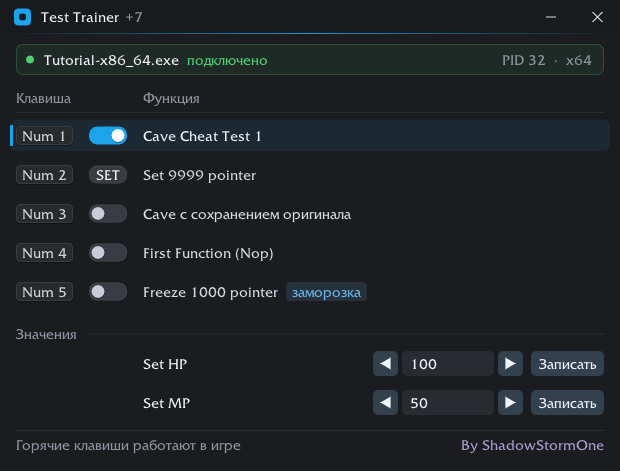
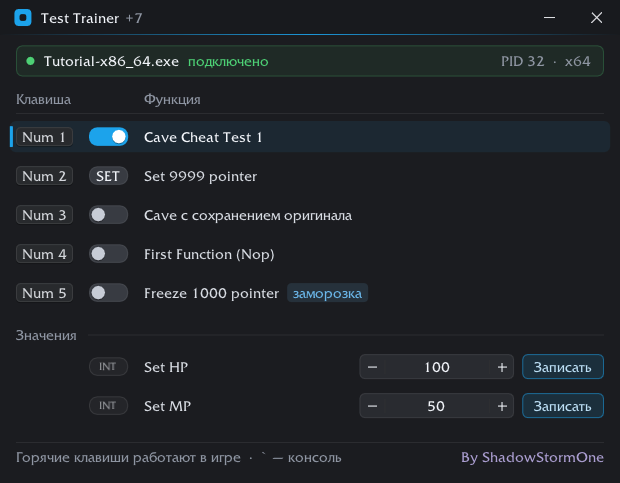
Поля значений вписаны в таблицу: единое поле «− число +», кнопка в стиле панели
Строки значений выглядели чужими: название висело посреди строки,
слева зияла пустота на месте клавиши и переключателя, стрелки были
отдельными синими квадратами, а кнопка «Записать» — стандартной кнопкой
ImGui другой высоты.

Теперь строка значения устроена как строка чита: та же подсветка при
наведении, на месте переключателя — плашка типа (INT/FLOAT) того же
размера, название в той же колонке и тем же цветом. Поле — одна рамка
«− число +» с числом по центру и акцентной рамкой при вводе; кнопка
«Записать» — в акцентном цвете панели. Всё одной высоты и масштабируется
вместе с интерфейсом.

Старый ValueStepper больше не нужен и удалён.

Claude-Session: https://claude.ai/code/session_013vY5VkDpGFGQUtxpPz7ULk

diff --git a/ui/UIControls.cpp b/ui/UIControls.cpp
@@ -212,16 +212,20 @@ void UIControls::StatusDot(const ImVec2& center, float radius, ImU32 color, floa
     draw->AddCircleFilled(center, radius, color);
 }
 
-bool UIControls::ValueStepper(const char* id, ImGuiDataType type, void* value, double step, float width,
-                              bool* submitted)
+bool UIControls::NumberField(const char* id, ImGuiDataType type, void* value, double step,
+                             const ImVec2& size, bool* submitted)
 {
     if (!value) return false;
 
     ImGui::PushID(id);
 
     const ImGuiStyle& style = ImGui::GetStyle();
-    const float arrow = ImGui::GetFrameHeight(); // стрелки квадратные
-    const float fieldWidth = width - arrow * 2.0f - style.ItemInnerSpacing.x * 2.0f;
+    ImDrawList* draw = ImGui::GetWindowDrawList();
+    const ImVec2 p = ImGui::GetCursorScreenPos();
+    const ImVec2 max(p.x + size.x, p.y + size.y);
+    const float rounding = style.FrameRounding;
+    const float button = size.y; // − и + квадратные
+    const bool disabled = (ImGui::GetItemFlags() & ImGuiItemFlags_Disabled) != 0;
 
     bool changed = false;
 
@@ -229,48 +233,153 @@ bool UIControls::ValueStepper(const char* id, ImGuiDataType type, void* value, d
     {
         switch (type)
         {
-        case ImGuiDataType_S32:    *static_cast<int*>(value)    += static_cast<int>(step * direction); break;
-        case ImGuiDataType_Float:  *static_cast<float*>(value)  += static_cast<float>(step * direction); break;
-        case ImGuiDataType_Double: *static_cast<double*>(value) += step * direction; break;
+        case ImGuiDataType_S32:    *static_cast<int*>(value)       += static_cast<int>(step * direction); break;
         case ImGuiDataType_S64:    *static_cast<long long*>(value) += static_cast<long long>(step * direction); break;
+        case ImGuiDataType_Float:  *static_cast<float*>(value)     += static_cast<float>(step * direction); break;
+        case ImGuiDataType_Double: *static_cast<double*>(value)    += step * direction; break;
         default: break;
         }
         changed = true;
     };
 
-    // Удержание стрелки повторяет шаг: набирать большое значение по одному
-    // щелчку невозможно.
-    ImGui::PushItemFlag(ImGuiItemFlags_ButtonRepeat, true);
-    ImGui::PushStyleVar(ImGuiStyleVar_ItemSpacing, ImVec2(style.ItemInnerSpacing.x, style.ItemSpacing.y));
+    // Рамка поля целиком — один элемент, как у настоящего spin box.
+    const ImGuiID editingId = ImGui::GetID("##editing");
+    ImGuiStorage* storage = ImGui::GetStateStorage();
+    const bool wasEditing = storage->GetBool(editingId, false);
 
-    if (ImGui::ArrowButton("##dec", ImGuiDir_Left)) nudge(-1.0);
+    const ImU32 frame = ImGui::GetColorU32(ImGuiCol_FrameBg);
+    draw->AddRectFilled(p, max, frame, rounding);
 
-    ImGui::SameLine();
-    ImGui::SetNextItemWidth(fieldWidth > 0.0f ? fieldWidth : 1.0f);
+    // Кнопки − и +: невидимые, рисуем сами. Удержание повторяет шаг.
+    const auto sideButton = [&](const char* buttonId, float x, bool plus)
+    {
+        ImGui::SetCursorScreenPos(ImVec2(x, p.y));
+        ImGui::PushItemFlag(ImGuiItemFlags_ButtonRepeat, true);
+        const bool pressed = ImGui::InvisibleButton(buttonId, ImVec2(button, size.y));
+        ImGui::PopItemFlag();
 
-    const char* format = (type == ImGuiDataType_Float || type == ImGuiDataType_Double) ? "%.3f" : nullptr;
+        const bool hovered = ImGui::IsItemHovered();
+        const bool held = ImGui::IsItemActive();
+
+        if (hovered || held)
+        {
+            const ImDrawFlags corners = plus ? ImDrawFlags_RoundCornersRight : ImDrawFlags_RoundCornersLeft;
+            draw->AddRectFilled(ImVec2(x, p.y), ImVec2(x + button, max.y),
+                                ImGui::GetColorU32(held ? ImGuiCol_FrameBgActive : ImGuiCol_FrameBgHovered),
+                                rounding, corners);
+        }
+
+        // Знаки рисуем линиями: ровно по центру и одной толщины на любом шрифте.
+        const ImVec2 c(x + button * 0.5f, p.y + size.y * 0.5f);
+        const float arm = size.y * 0.18f;
+        const float thick = (std::max)(1.2f, size.y * 0.06f);
+        const ImU32 glyph = ImGui::GetColorU32(disabled ? ImGuiCol_TextDisabled : ImGuiCol_Text,
+                                               hovered ? 1.0f : 0.7f);
+        draw->AddLine(ImVec2(c.x - arm, c.y), ImVec2(c.x + arm, c.y), glyph, thick);
+        if (plus) draw->AddLine(ImVec2(c.x, c.y - arm), ImVec2(c.x, c.y + arm), glyph, thick);
+
+        return pressed;
+    };
+
+    if (sideButton("##dec", p.x, false)) nudge(-1.0);
+    if (sideButton("##inc", max.x - button, true)) nudge(1.0);
+
+    // Тонкие разделители между кнопками и числом.
+    const ImU32 divider = ImGui::GetColorU32(ImGuiCol_Border, 0.9f);
+    draw->AddLine(ImVec2(p.x + button, p.y + size.y * 0.22f), ImVec2(p.x + button, max.y - size.y * 0.22f), divider);
+    draw->AddLine(ImVec2(max.x - button, p.y + size.y * 0.22f), ImVec2(max.x - button, max.y - size.y * 0.22f), divider);
+
+    // Само число. Пока его не редактируют — по центру: отступ считается от
+    // ширины текста (своего выравнивания у InputText нет).
+    const float fieldW = size.x - button * 2.0f;
+    const char* format = (type == ImGuiDataType_Float || type == ImGuiDataType_Double) ? "%g" : nullptr;
+
+    char preview[64]{};
+    ImGui::DataTypeFormatString(preview, sizeof(preview), type, value,
+                                format ? format : ImGui::DataTypeGetInfo(type)->PrintFmt);
+    const float textW = ImGui::CalcTextSize(preview).x;
+    const float padX = wasEditing ? style.FramePadding.x
+                                  : (std::max)(style.FramePadding.x, (fieldW - textW) * 0.5f);
+
+    ImGui::SetCursorScreenPos(ImVec2(p.x + button, p.y));
+    ImGui::PushStyleColor(ImGuiCol_FrameBg, IM_COL32(0, 0, 0, 0));
+    ImGui::PushStyleColor(ImGuiCol_FrameBgHovered, IM_COL32(0, 0, 0, 0));
+    ImGui::PushStyleColor(ImGuiCol_FrameBgActive, IM_COL32(0, 0, 0, 0));
+    ImGui::PushStyleVar(ImGuiStyleVar_FramePadding,
+                        ImVec2(padX, (size.y - ImGui::GetTextLineHeight()) * 0.5f));
+    ImGui::SetNextItemWidth(fieldW);
+
     if (ImGui::InputScalar("##value", type, value, nullptr, nullptr, format)) changed = true;
 
+    const bool editing = ImGui::IsItemActive();
+    storage->SetBool(editingId, editing);
+
     // Enter в поле — то же, что кнопка рядом.
-    if (submitted && (ImGui::IsItemActive() || ImGui::IsItemDeactivated())
+    if (submitted && (editing || ImGui::IsItemDeactivated())
         && (ImGui::IsKeyPressed(ImGuiKey_Enter) || ImGui::IsKeyPressed(ImGuiKey_KeypadEnter)))
     {
         *submitted = true;
     }
 
-    ImGui::SameLine();
-    if (ImGui::ArrowButton("##inc", ImGuiDir_Right)) nudge(1.0);
-
     ImGui::PopStyleVar();
-    ImGui::PopItemFlag();
-    ImGui::PopID();
+    ImGui::PopStyleColor(3);
 
+    // Рамка: при редактировании — акцентная, как фокус у полей Windows.
+    const ImVec4 accent = style.Colors[ImGuiCol_CheckMark];
+    draw->AddRect(p, max, editing ? ImGui::ColorConvertFloat4ToU32(ImVec4(accent.x, accent.y, accent.z, 0.85f))
+                                  : IM_COL32(255, 255, 255, 18), rounding);
+
+    // Раскладка: поле — один элемент нужного размера.
+    ImGui::SetCursorScreenPos(p);
+    ImGui::Dummy(size);
+
+    ImGui::PopID();
     return changed;
 }
 
-bool UIControls::ValueStepper(const char* id, int* value, int step, int minValue, int maxValue, float width)
+bool UIControls::AccentButton(const char* id, const char* label, const ImVec2& size)
 {
-    const bool changed = ValueStepper(id, ImGuiDataType_S32, value, static_cast<double>(step), width);
-    if (changed) *value = Utils::Clamp(*value, minValue, maxValue);
-    return changed;
+    const ImGuiStyle& style = ImGui::GetStyle();
+    ImDrawList* draw = ImGui::GetWindowDrawList();
+    const ImVec2 p = ImGui::GetCursorScreenPos();
+    const ImVec2 max(p.x + size.x, p.y + size.y);
+
+    const bool pressed = ImGui::InvisibleButton(id, size);
+    const bool hovered = ImGui::IsItemHovered();
+    const bool held = ImGui::IsItemActive();
+
+    const ImVec4 accent = style.Colors[ImGuiCol_CheckMark];
+    const float fill = held ? 0.55f : hovered ? 0.30f : 0.14f;
+
+    draw->AddRectFilled(p, max, ImGui::ColorConvertFloat4ToU32(ImVec4(accent.x, accent.y, accent.z, fill)),
+                        style.FrameRounding);
+    draw->AddRect(p, max, ImGui::ColorConvertFloat4ToU32(ImVec4(accent.x, accent.y, accent.z, hovered ? 0.9f : 0.5f)),
+                  style.FrameRounding);
+
+    const ImVec2 textSize = ImGui::CalcTextSize(label);
+    const ImVec4 text = hovered ? ImVec4(1, 1, 1, 1) : Mix(style.Colors[ImGuiCol_Text], accent, 0.25f);
+    draw->AddText(ImVec2(p.x + (size.x - textSize.x) * 0.5f, p.y + (size.y - textSize.y) * 0.5f),
+                  ImGui::ColorConvertFloat4ToU32(text), label);
+
+    if (hovered) ImGui::SetMouseCursor(ImGuiMouseCursor_Hand);
+    return pressed;
+}
+
+void UIControls::TagPill(const char* text, const ImVec2& size)
+{
+    ImDrawList* draw = ImGui::GetWindowDrawList();
+    const ImVec2 p = ImGui::GetCursorScreenPos();
+    ImGui::Dummy(size);
+
+    const float rounding = size.y * 0.5f;
+    draw->AddRectFilled(p, ImVec2(p.x + size.x, p.y + size.y), IM_COL32(255, 255, 255, 10), rounding);
+    draw->AddRect(p, ImVec2(p.x + size.x, p.y + size.y), IM_COL32(255, 255, 255, 22), rounding);
+
+    // Мельче основного текста: это подпись, а не содержимое.
+    ImFont* font = ImGui::GetFont();
+    const float fontSize = ImGui::GetFontSize() * 0.78f;
+    const ImVec2 textSize = font->CalcTextSizeA(fontSize, FLT_MAX, 0.0f, text);
+    draw->AddText(font, fontSize,
+                  ImVec2(p.x + (size.x - textSize.x) * 0.5f, p.y + (size.y - textSize.y) * 0.5f),
+                  ImGui::GetColorU32(ImGuiCol_Text, 0.55f), text);
 }

diff --git a/ui/MainView.cpp b/ui/MainView.cpp
@@ -607,68 +607,103 @@ void MainView::RenderInputFields(const Columns& columns)
     if (_valueFields.empty()) return;
 
     const ImGuiStyle& style = ImGui::GetStyle();
+    ImDrawList* draw = ImGui::GetWindowDrawList();
+    const float winX = ImGui::GetWindowPos().x;
 
-    // Раздел «Значения» — продолжение той же таблицы, с подписью.
-    ImGui::Dummy(ImVec2(0.0f, 4.0f));
-    ImGui::SetCursorPosX(columns.key);
-    ImGui::TextColored(kMuted, "Значения");
-    ImGui::SameLine();
+    // Раздел «Значения» — продолжение той же таблицы: подпись в колонке
+    // клавиш и линия до правого края.
+    ImGui::Dummy(ImVec2(0.0f, Layout::Px(4.0f)));
     {
         const ImVec2 p = ImGui::GetCursorScreenPos();
-        const float y = p.y + ImGui::GetTextLineHeight() * 0.5f;
-        ImGui::GetWindowDrawList()->AddLine(ImVec2(p.x + 4.0f, y), ImVec2(ImGui::GetWindowPos().x + columns.right, y),
-                                            ImGui::GetColorU32(ImGuiCol_Separator), 1.0f);
-        ImGui::NewLine();
+        const float lineH = ImGui::GetTextLineHeight();
+        draw->AddText(ImVec2(winX + columns.key, p.y), U32(kMuted), "Значения");
+        const float textW = ImGui::CalcTextSize("Значения").x;
+        draw->AddLine(ImVec2(winX + columns.key + textW + Layout::Px(10.0f), p.y + lineH * 0.5f),
+                      ImVec2(winX + columns.right, p.y + lineH * 0.5f),
+                      ImGui::GetColorU32(ImGuiCol_Separator), 1.0f);
+        ImGui::Dummy(ImVec2(0.0f, lineH + Layout::Px(2.0f)));
     }
 
-    const float buttonWidth = ImGui::CalcTextSize("Записать").x + style.FramePadding.x * 2.0f;
-    const float stepperWidth = Layout::InputWidth();
-
-    const float buttonX = columns.right - buttonWidth;
-    const float stepperX = buttonX - style.ItemSpacing.x - stepperWidth;
-
+    // Строка значения устроена так же, как строка чита:
+    //   [колонка клавиш] [плашка типа на месте переключателя] Название ... [− 100 +] [Записать]
+    // Высота элементов управления — та же, что у строки, без «прыгающих»
+    // стандартных кнопок ImGui другой высоты.
     const float itemH = Layout::RowHeight();
     const float rowH = itemH + Layout::Px(ROW_PAD_Y) * 2.0f;
     const float rowGap = Layout::Px(ROW_GAP);
+    const float controlH = ImGui::GetFrameHeight();
+
+    const float buttonW = ImGui::CalcTextSize("Записать").x + Layout::Px(24.0f);
+    const float fieldW = Layout::InputWidth();
+    const float buttonX = columns.right - buttonW;
+    const float fieldX = buttonX - Layout::Px(8.0f) - fieldW;
 
     for (InputFieldView& field : _valueFields)
     {
         ImGui::PushID(&field);
 
         const ImVec2 rowPos = ImGui::GetCursorScreenPos();
-        const float frameY = ImGui::GetCursorPosY() + (rowH - ImGui::GetFrameHeight()) * 0.5f;
+        const ImVec2 rowMin(winX + columns.key - Layout::Px(6.0f), rowPos.y);
+        const ImVec2 rowMax(winX + columns.right + Layout::Px(6.0f), rowPos.y + rowH);
+        const float centerY = rowPos.y + rowH * 0.5f;
 
-        ImGui::SetCursorPos(ImVec2(columns.name, frameY));
-        ImGui::AlignTextToFramePadding();
-        Layout::RowLabel(field.label, stepperX - columns.name - style.ItemSpacing.x, style.Colors[ImGuiCol_Text]);
-        if (!field.hint.empty() && ImGui::IsItemHovered()) ImGui::SetTooltip("%s", field.hint.c_str());
+        if (ImGui::IsWindowHovered(ImGuiHoveredFlags_AllowWhenBlockedByActiveItem)
+            && ImGui::IsMouseHoveringRect(rowMin, rowMax))
+        {
+            draw->AddRectFilled(rowMin, rowMax, IM_COL32(255, 255, 255, 10), Layout::Px(6.0f));
+        }
 
-        // Поле показывает тип значения: у дробного — дробный шаг.
+        // Тип поля — на месте переключателя: столбец не рвётся, и видно,
+        // что поле ждёт дробь, а не целое.
         const ImGuiDataType type = DataTypeOf(field.value);
-        const double step = (type == ImGuiDataType_Float || type == ImGuiDataType_Double) ? 0.1 : 1.0;
+        const bool fractional = (type == ImGuiDataType_Float || type == ImGuiDataType_Double);
+        const char* typeName = type == ImGuiDataType_Float ? "FLOAT"
+                             : type == ImGuiDataType_Double ? "DOUBLE"
+                             : type == ImGuiDataType_S64 ? "INT64" : "INT";
 
-        ImGui::SetCursorPos(ImVec2(stepperX, frameY));
+        ImGui::SetCursorScreenPos(ImVec2(winX + columns.toggle, centerY - Layout::ToggleHeight() * 0.5f));
+        UIControls::TagPill(typeName, ImVec2(Layout::ToggleWidth(), Layout::ToggleHeight()));
+
+        // Название — в той же колонке и тем же цветом, что названия читов.
+        const float nameW = fieldX - columns.name - Layout::Px(12.0f);
+        const std::string shown = Layout::FitText(field.label, nameW);
+        draw->AddText(ImVec2(winX + columns.name, centerY - ImGui::GetTextLineHeight() * 0.5f),
+                      U32(UIControls::Mix(style.Colors[ImGuiCol_Text], kMuted, 0.25f)), shown.c_str());
+
+        ImGui::SetCursorScreenPos(ImVec2(winX + columns.name, rowPos.y));
+        ImGui::InvisibleButton("##label", ImVec2((std::max)(1.0f, nameW), rowH));
+        if (ImGui::IsItemHovered() && (shown != field.label || !field.hint.empty()))
+        {
+            ImGui::BeginTooltip();
+            if (shown != field.label) ImGui::TextUnformatted(field.label.c_str());
+            if (!field.hint.empty()) ImGui::TextColored(kMuted, "%s", field.hint.c_str());
+            ImGui::EndTooltip();
+        }
+
+        // Поле «− значение +».
         bool submit = false;
+        const double step = fractional ? 0.1 : 1.0;
+        ImGui::SetCursorScreenPos(ImVec2(winX + fieldX, centerY - controlH * 0.5f));
+
         std::visit([&](auto& v)
         {
             using T = std::decay_t<decltype(v)>;
             if constexpr (std::is_same_v<T, std::int32_t> || std::is_same_v<T, float>
                        || std::is_same_v<T, double> || std::is_same_v<T, std::int64_t>)
             {
-                UIControls::ValueStepper("##stepper", type, &v, step, stepperWidth, &submit);
+                UIControls::NumberField("##value", type, &v, step, ImVec2(fieldW, controlH), &submit);
             }
             else
             {
                 int proxy = static_cast<int>(v);
-                if (UIControls::ValueStepper("##stepper", ImGuiDataType_S32, &proxy, 1.0, stepperWidth, &submit))
+                if (UIControls::NumberField("##value", ImGuiDataType_S32, &proxy, 1.0, ImVec2(fieldW, controlH), &submit))
                     v = static_cast<T>(proxy);
             }
         }, field.value);
 
-        ImGui::SetCursorPos(ImVec2(buttonX, frameY));
+        ImGui::SetCursorScreenPos(ImVec2(winX + buttonX, centerY - controlH * 0.5f));
+        if (UIControls::AccentButton("##write", "Записать", ImVec2(buttonW, controlH))) submit = true;
 
-        // Enter в поле — то же, что кнопка.
-        if (ImGui::Button("Записать", ImVec2(buttonWidth, 0.0f))) submit = true;
         if (submit) WriteValueField(field);
 
         ImGui::SetCursorScreenPos(rowPos);

diff --git a/ui/UIControls.h b/ui/UIControls.h
@@ -6,17 +6,19 @@
 
 namespace UIControls
 {
-    // Числовой регулятор: < значение >
-    //
-    // Стрелки меняют значение шагом step и повторяются при удержании,
-    // само поле остаётся редактируемым — вводить 999999 стрелками никто
-    // не станет. Тип значения — любой из ImGuiDataType (int, float, double).
-    // submitted — выставляется в true, если в поле нажали Enter.
-    bool ValueStepper(const char* id, ImGuiDataType type, void* value, double step, float width,
-                      bool* submitted = nullptr);
+    // Числовое поле «− значение +» в одной рамке: кнопки по краям, число
+    // по центру. Высота — height (обычно высота строки таблицы).
+    // Удержание − / + повторяет шаг, Enter в поле выставляет submitted.
+    bool NumberField(const char* id, ImGuiDataType type, void* value, double step,
+                     const ImVec2& size, bool* submitted = nullptr);
 
-    // Для int — прежняя форма с границами.
-    bool ValueStepper(const char* id, int* value, int step, int minValue, int maxValue, float width);
+    // Кнопка действия в стиле панели: контур акцентного цвета, заливка
+    // при наведении. Не стандартная серая кнопка ImGui.
+    bool AccentButton(const char* id, const char* label, const ImVec2& size);
+
+    // Плашка-подпись того же размера, что переключатель: тип поля (INT).
+    void TagPill(const char* text, const ImVec2& size);
+
 
     // Переключатель с анимацией.
     bool AnimatedToggleSwitch(const char* id, bool* v, const ImVec2& size = ImVec2(38, 18), float animationSpeed = 0.1f);
